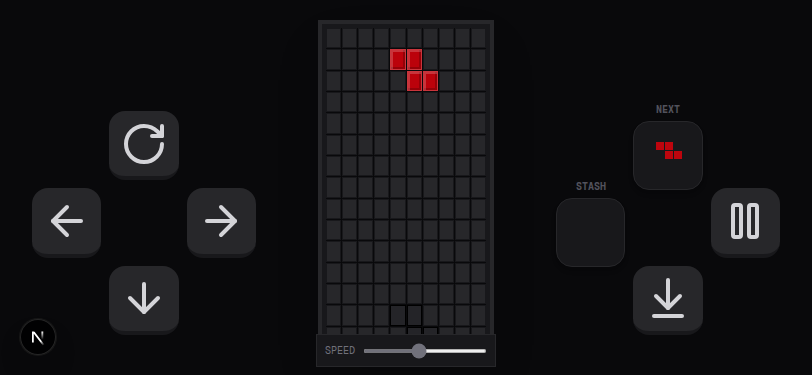
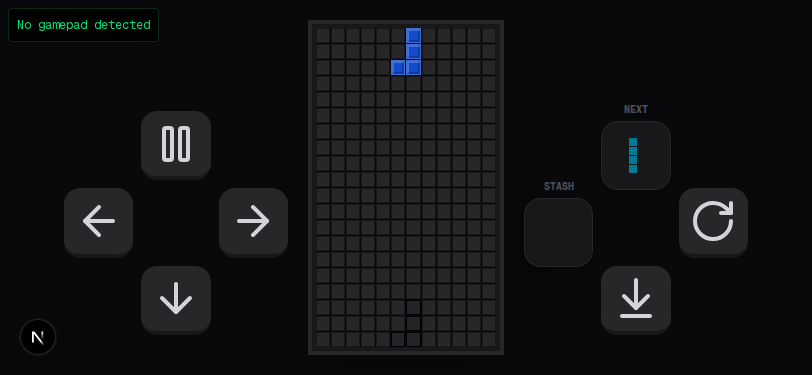
feat: add Gamepad API debug overlay to Tetris page
Added a fixed debug overlay to the Tetris page that displays the raw `navigator.getGamepads()` data (ID, axes, and button states) for the first connected gamepad. This overlay is positioned in the top-left corner and updates on every animation frame to help diagnose mapping issues with game controllers like Joy-Cons.

diff --git a/app/tetris/page.tsx b/app/tetris/page.tsx
@@ -6,6 +6,34 @@ import { useGamepad } from "./useGamepad";
 import { Play, Pause, RotateCw, ArrowLeft, ArrowRight, ArrowDown, ArrowDownToLine } from "lucide-react";
 
 export default function TetrisPage() {
+  const [debugGamepad, setDebugGamepad] = useState<string>("No gamepad detected");
+
+  useEffect(() => {
+    let animationFrameId: number;
+    const updateDebug = () => {
+      const gamepads = navigator.getGamepads ? navigator.getGamepads() : [];
+      const gp = gamepads[0]; // Just check the first one for debug
+
+      if (gp) {
+        let debugStr = `Gamepad: ${gp.id}\n`;
+        debugStr += `Axes: ${gp.axes.map(a => a.toFixed(2)).join(', ')}\n`;
+        debugStr += `Buttons:\n`;
+        gp.buttons.forEach((b, i) => {
+          if (b.pressed) {
+            debugStr += `  [${i}]: pressed\n`;
+          }
+        });
+        setDebugGamepad(debugStr);
+      } else {
+        setDebugGamepad("No gamepad detected");
+      }
+      animationFrameId = requestAnimationFrame(updateDebug);
+    };
+
+    animationFrameId = requestAnimationFrame(updateDebug);
+    return () => cancelAnimationFrame(animationFrameId);
+  }, []);
+
   const {
     board,
     currentPiece,
@@ -209,6 +237,11 @@ export default function TetrisPage() {
 
   return (
     <div className="min-h-screen bg-zinc-950 text-zinc-300 font-mono flex flex-col items-center py-4 px-3 md:py-8 md:px-4 selection:bg-zinc-800 landscape-short:flex-row landscape-short:justify-center landscape-short:py-1 landscape-short:px-2 landscape-short:gap-4 landscape-short:items-stretch landscape-short:relative">
+      {/* Gamepad Debug Overlay */}
+      <div className="fixed top-2 left-2 z-50 bg-black/80 text-green-400 font-mono text-xs p-2 rounded pointer-events-none whitespace-pre-wrap max-w-xs border border-green-900/50">
+        {debugGamepad}
+      </div>
+
       <div className="max-w-md w-full mb-3 md:mb-6 text-center landscape-short:hidden">
         <h1 className="text-2xl md:text-3xl font-bold tracking-widest text-zinc-100 uppercase mb-1 md:mb-2">Relaxed Tetris</h1>
         <p className="text-xs md:text-sm text-zinc-500 mb-2 md:mb-4">No Score. No Levels. Just Blocks.</p>
